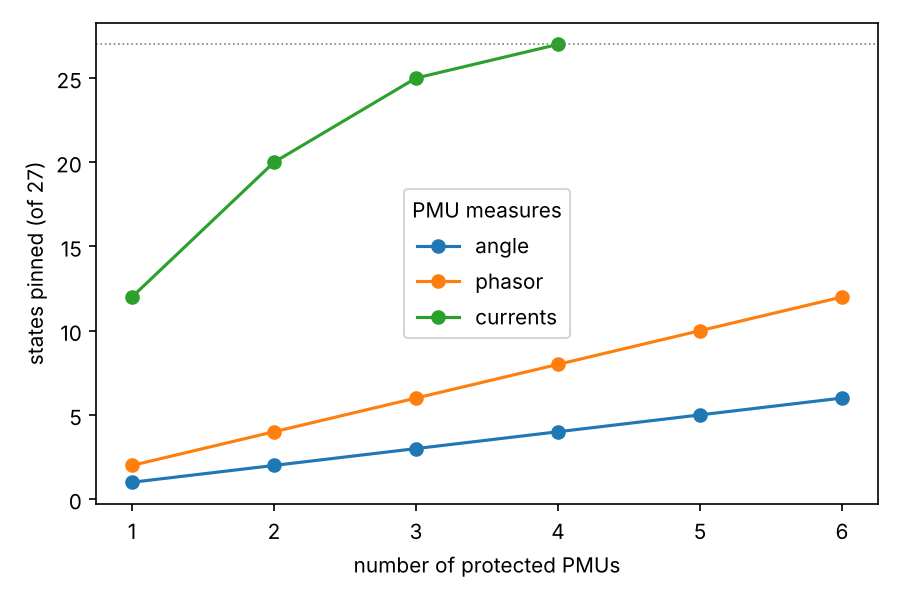
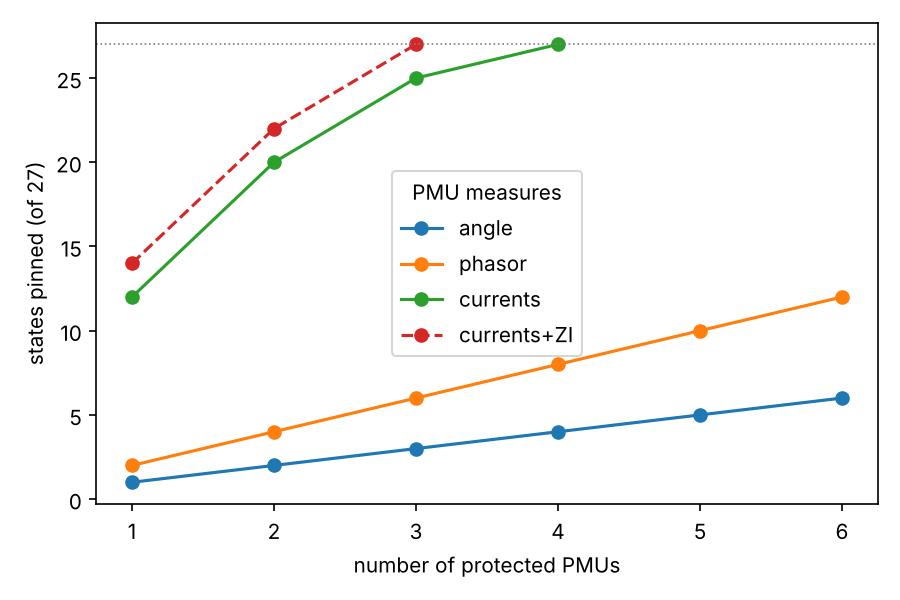
Count PMUs needed with the bus 7 zero injection

diff --git a/experiments/pmu_placement.py b/experiments/pmu_placement.py
@@ -8,8 +8,9 @@ every placement and prints the most states any of them pins, with the
 placements that reach it (IEEE bus numbers, 1-based). Then takes the best
 three-PMU placement with branch currents and shows what is still open:
 the buses whose states can move, and how many SCADA meters an attack in
-that direction has to write. Writes figures/pmu_placement.png. About 10
-seconds with the defaults.
+that direction has to write, and repeats the count with branch currents
+plus the zero injection constraint at bus 7. Writes
+figures/pmu_placement.png. About 10 seconds with the defaults.
 """
 
 import argparse
@@ -31,6 +32,8 @@ from gridbad.placement import (
     best_placements,
     pinned_states,
     pmu_jacobian,
+    zero_injection_buses,
+    zero_injection_jacobian,
 )
 from gridbad.wls import estimate
 
@@ -52,18 +55,21 @@ def main():
     truth = pn.case14()
     pp.runpp(truth, numba=False)
     n_states = 2 * len(truth.bus) - 1
-    counts = {m: [] for m in PMU_MODELS}
+    # (label, PMU model, add zero injection rows)
+    cases = [(m, m, False) for m in PMU_MODELS] + [("currents+ZI", "currents", True)]
+    counts = {label: [] for label, _, _ in cases}
     best3 = None
 
+    print(f"zero injection buses: {ieee(zero_injection_buses(truth))}")
     print(f"states pinned (of {n_states}) by the best placement")
-    for model in PMU_MODELS:
+    for label, model, zi in cases:
         for k in range(1, args.max_pmus + 1):
-            count, placements = best_placements(truth, k, model)
-            counts[model].append(count)
+            count, placements = best_placements(truth, k, model, zero_injection=zi)
+            counts[label].append(count)
             shown = " ".join(ieee(p) for p in placements[:3])
             more = f" and {len(placements) - 3} more" if len(placements) > 3 else ""
-            print(f"{model:<9} {k} PMUs: {count:>2}  {shown}{more}")
-            if model == "currents" and k == 3:
+            print(f"{label:<11} {k} PMUs: {count:>2}  {shown}{more}")
+            if label == "currents" and k == 3:
                 best3 = placements[0]
             if count == n_states:
                 break
@@ -86,11 +92,14 @@ def main():
     print(f"  buses that can still move: {ieee(open_buses)}")
     print(f"  |H_pmu c| = {np.abs(H_pmu @ c).max():.1e} for a 1 deg null direction")
     print(f"  SCADA meters it has to write: {len(meters_touched(a))} of {res.n_meas}")
+    dS = zero_injection_jacobian(truth, zero_injection_buses(truth)) @ c
+    dS_mw = dS * truth.sn_mva
+    print(f"  change in bus 7 P, Q injection: {dS_mw[0]:.2f} MW, {dS_mw[1]:.2f} Mvar")
 
     fig, ax = plt.subplots(figsize=(6, 4))
-    for model in PMU_MODELS:
-        ks = range(1, len(counts[model]) + 1)
-        ax.plot(ks, counts[model], marker="o", label=model)
+    for label, ys in counts.items():
+        ls = "--" if label.endswith("ZI") else "-"
+        ax.plot(range(1, len(ys) + 1), ys, marker="o", ls=ls, label=label)
     ax.axhline(n_states, color="grey", lw=0.8, ls=":")
     ax.set_xlabel("number of protected PMUs")
     ax.set_ylabel(f"states pinned (of {n_states})")

diff --git a/NOTES.md b/NOTES.md
@@ -290,3 +290,35 @@ current PMUs the way pmu_check.py does with angles. Bus 7 has no load
 or generator; a zero injection constraint there is something the
 attacker cannot write either, and might bring the count below 4. Not
 tried.
+
+## 2026-11-25
+
+Tried the zero injection idea from yesterday. Bus 7 has nothing on it but
+branches (zero_injection_buses finds only bus 7 in case14), so P_7 = Q_7 = 0
+is known whatever the bus 7 meters say. An attacker who writes SCADA but
+not the PMUs now also has to keep those two at zero, which adds two rows
+dS_7/dx to H_pmu before the null space is taken. The rows are checked
+against pandapower's own Jacobian rows for the bus 7 P and Q meters.
+
+```
+PMUs   currents   currents + bus 7 ZI
+   1         12                    14
+   2         20                    22
+   3         25                    27   {2, 6, 9} only
+   4         27
+```
+
+So three PMUs with branch currents are enough, and {2, 6, 9} is the only
+placement of three that does it. The constraint adds exactly two states
+each time, which fits: two equations, and with buses 4, 7 and 9 pinned the
+only unknowns left in S_7 are the angle and |V| of bus 8, the bus that
+hangs off bus 7 alone. The 1 deg direction that was left open yesterday
+moves the bus 7 injection by -11.46 MW and -2.00 Mvar, which the attacker
+cannot hide at a bus where it has to be zero.
+
+Same limit as before: first order, at the power flow state, no AC attack
+run through the estimator. pandapower can add zero injection as a virtual
+measurement (zero_injection= in estimate(), which replaces the bus P and Q
+with 0 and a very small std); gridbad.wls passes None so that every row of
+z is a real meter. Running the bus 8 attack with that on is the obvious
+check.

diff --git a/README.md b/README.md
@@ -30,7 +30,8 @@ bus 14 itself (figures/pmu_check.png, about 3 minutes).
 
 `python experiments/pmu_placement.py` finds how few protected PMUs leave
 no state an attacker can move through the SCADA meters alone. With branch
-currents it takes four, for example on buses 2, 6, 7 and 9
+currents it takes four, for example on buses 2, 6, 7 and 9, or three
+(buses 2, 6 and 9) once the estimator knows that bus 7 has zero injection
 (figures/pmu_placement.png, about 10 seconds).
 
 NOTES.md has the results so far.
